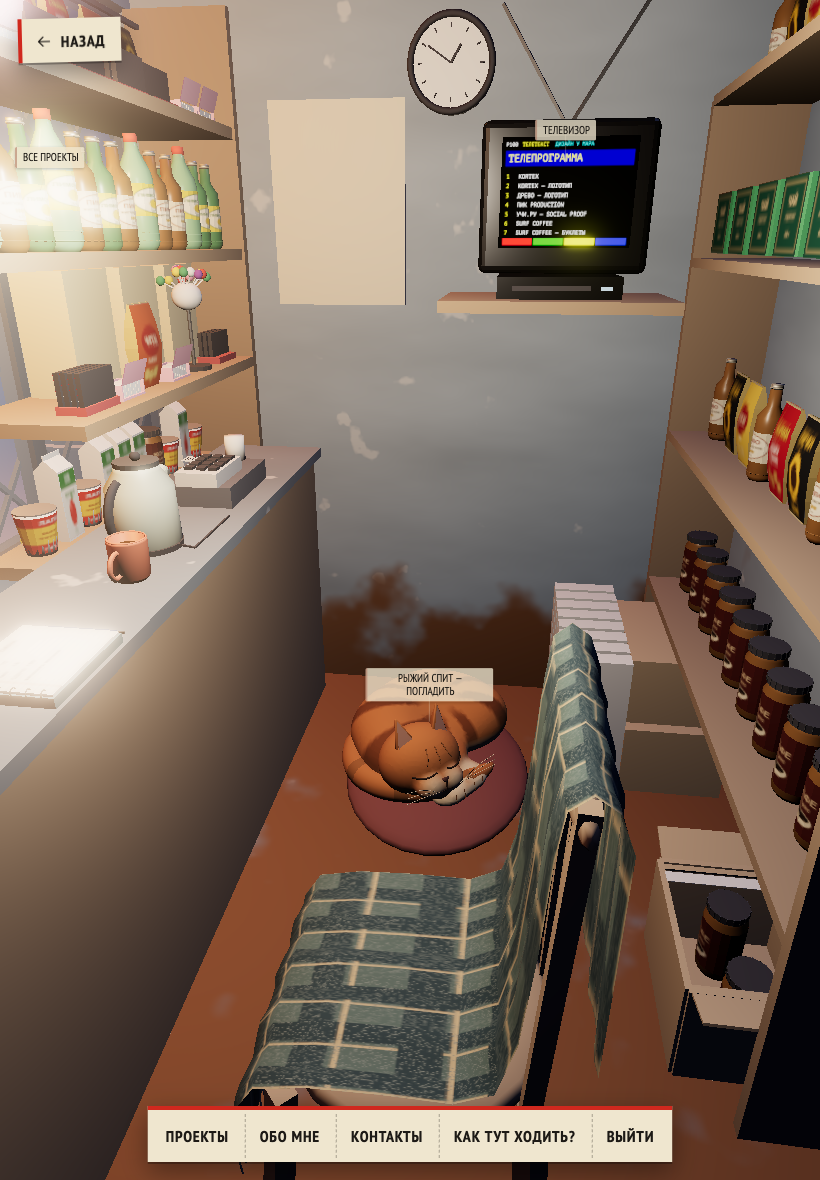
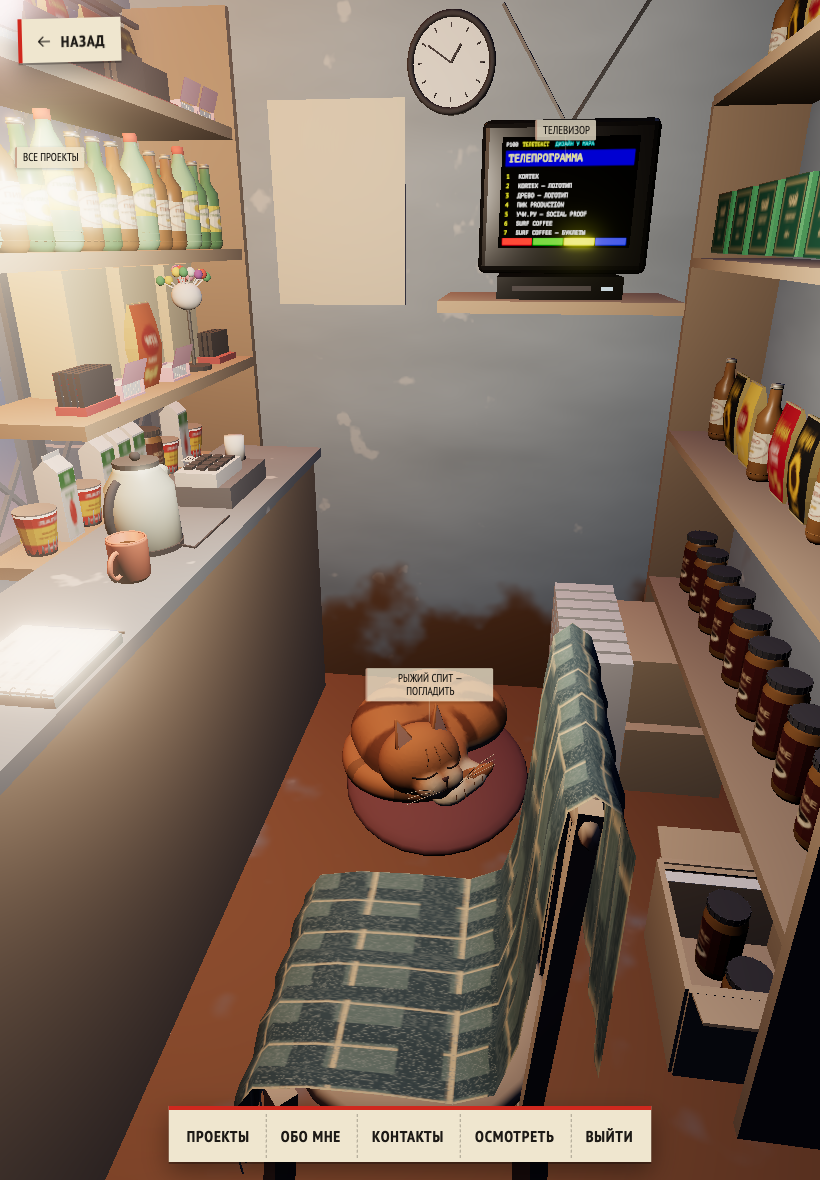
fix: expose every kiosk object through touch exploration

Changed region(s): [[0.1524, 0.9153, 0.8232, 1.0]]

diff --git a/scripts/kiosk/check-explore-browser.js b/scripts/kiosk/check-explore-browser.js
@@ -1,0 +1,66 @@
+async page => {
+  const browser = page.context().browser();
+  const base = 'http://localhost:5173/missing-mar-portfolio/';
+  const output = '/Users/mar/Documents/ChatGPT/des/missing-mar-portfolio/docs/superpowers/qa/kiosk-explore';
+  const results = [];
+  const errors = [];
+  const wait = async p => p.waitForFunction(() => {window.__kiosk?.frame();return window.__kiosk && !window.__kiosk.inFlight;}, null, {timeout:60000});
+  for (const size of [{name:'phone',width:390,height:844},{name:'ipad-portrait',width:820,height:1180},{name:'ipad-landscape',width:1180,height:820}]) {
+    const c = await browser.newContext({viewport:{width:size.width,height:size.height},isMobile:true,hasTouch:true,deviceScaleFactor:1,reducedMotion:'reduce'});
+    const p = await c.newPage();
+    p.on('pageerror',e=>errors.push(e.message));
+    const open = async () => {
+      await p.getByRole('button',{name:'Осмотреть',exact:true}).tap();
+      await p.getByRole('dialog',{name:'Осмотреть ларёк'}).waitFor({state:'visible'});
+    };
+    const reset = async () => {await p.goto(base);await p.reload();await wait(p);};
+    try {
+      await reset();
+      await p.waitForFunction(()=>!document.querySelector('.kiosk-touch-labels').classList.contains('is-moving'));
+      await p.locator('.kiosk-touch-label[data-node="hs_flyer"]').tap();await wait(p);
+      if(await p.evaluate(()=>location.hash)!=='#contact')throw Error('Direct contact label failed');
+      await p.locator('.screen-flyer .flyer-tabs a').filter({visible:true}).first().waitFor({state:'visible'});
+      await p.screenshot({path:`${output}/${size.name}-contacts.png`});
+      await reset();await open();
+      const projectLinks=await p.locator('#kiosk-explore a[href^="#project/"]').evaluateAll(es=>es.map(e=>({href:e.getAttribute('href'),text:e.textContent})));
+      if(projectLinks.length!==7)throw Error('Missing projects');
+      await p.screenshot({path:`${output}/${size.name}-menu.png`});
+      await p.getByRole('button',{name:'Закрыть список объектов'}).tap();
+      if(await p.evaluate(()=>document.activeElement?.dataset.action)!=='kiosk-explore')throw Error('Focus did not return');
+      const checks = [
+        ['hs_flyer','flyer','#contact'],['hs_pricelist','price','#price'],['hs_billboard','billboard','#about'],
+        ['hs_terminal','terminal',null],['hs_rack','rack',null],['hs_showcase','showcase',null],
+        ['hs_backdoor','inside',null],['hs_tv','tv','#catalog'],['hs_cat','cat',null],
+        ['hs_radio','inside',null],['hs_calendar','inside',null],['hs_sign_away','home',null]
+      ];
+      const checked=[];
+      for(const [node,preset,hash] of checks) {
+        await reset();await open();
+        await p.locator(`#kiosk-explore [data-node="${node}"]`).tap();
+        await p.waitForFunction(preset=>{window.__kiosk.frame();return window.__kiosk.current===preset&&!window.__kiosk.inFlight;},preset);
+        const state=await p.evaluate(()=>({current:window.__kiosk.current,hash:location.hash,dialog:document.querySelector('#kiosk-explore')?.open}));
+        if(state.current!==preset || (hash && state.hash!==hash) || state.dialog)throw Error(`${node}: ${JSON.stringify(state)}`);
+        if(['hs_radio','hs_calendar'].includes(node)) {
+          const dot=await p.evaluate(node=>{const k=window.__kiosk,o=k.scene.getObjectByName(node==='hs_calendar'?'calendar_print':node),v=o.position.clone();o.geometry.computeBoundingBox();o.geometry.boundingBox.getCenter(v);o.localToWorld(v);return k.camera.getWorldDirection(v.clone()).dot(v.sub(k.camera.position).normalize());},node);
+          if(dot<0.98)throw Error(`Camera did not face ${node}: ${dot}`);
+        }
+        checked.push(node);
+      }
+      for(const link of (size.name==='phone'?projectLinks:projectLinks.slice(0,1))) {
+        await reset();await open();
+        await p.locator(`#kiosk-explore a[href="${link.href}"]`).tap();
+        await p.waitForFunction(()=>{window.__kiosk.frame();return window.__kiosk.current==='tv'&&!window.__kiosk.inFlight;});
+        if(await p.evaluate(()=>location.hash)!==link.href)throw Error(`Project failed ${link.text}`);
+        if(await p.evaluate(()=>window.__kiosk.current)!=='tv')throw Error('Project TV did not open');
+      }
+      await reset();await p.getByRole('navigation',{name:'Помощь по ларьку'}).getByRole('button',{name:'Внутрь',exact:true}).tap();await wait(p);await open();
+      await p.keyboard.press('Escape');
+      if(await p.evaluate(()=>window.__kiosk.current)!=='inside')throw Error('Escape also navigated away');
+      await open();await p.getByRole('button',{name:'Выйти на улицу',exact:true}).tap();await wait(p);
+      if(await p.evaluate(()=>window.__kiosk.current)!=='home')throw Error('Menu exit failed');
+      results.push({device:size.name,directFlyer:true,objects:checked,projects:size.name==='phone'?projectLinks.length:1,focusReturn:true,escape:true,exit:true});
+    } finally {await c.close();}
+  }
+  if(errors.length)throw Error(errors.join('\n'));
+  return {results,errors};
+}

diff --git a/assets/js/kiosk/ui.js b/assets/js/kiosk/ui.js
@@ -1,4 +1,5 @@
 import { escapeHtml } from '../render.js';
+import { HOTSPOTS } from './hotspots.js';
 
 const BACK_ICON = '<i class="ph ph-arrow-left" aria-hidden="true"></i>';
 
@@ -8,8 +9,27 @@ export function renderHelpBar() {
     <a href="#about">Обо мне</a>
     <button type="button" data-action="contacts-card" aria-expanded="false" aria-controls="contact-card">Контакты</button>
     <button type="button" data-action="kiosk-help">Как тут ходить?</button>
+    <button type="button" class="kiosk-explore-toggle" data-action="kiosk-explore" aria-haspopup="dialog" aria-controls="kiosk-explore">Осмотреть</button>
     <button type="button" data-action="kiosk-inside">Внутрь</button>
   </nav>`;
+}
+
+export function renderExploreMenu(projects = [], inside = false) {
+  const names = { hs_flyer: 'Листок с контактами', hs_billboard: 'Баннер — обо мне',
+    hs_pricelist: 'Листок с прайсом', hs_terminal: 'Пополнение баланса',
+    hs_sign_away: 'Табличка «Отошёл»', hs_backdoor: inside ? 'Выйти на улицу' : 'Зайти внутрь' };
+  const group = (title, nodes) => `<section><h3>${title}</h3><div class="kiosk-explore-grid">${nodes.map(node =>
+    `<button type="button" data-action="kiosk-explore-pick" data-node="${node}">${escapeHtml(names[node] || HOTSPOTS[node].label)}</button>`
+  ).join('')}</div></section>`;
+  return `<dialog class="kiosk-explore" id="kiosk-explore" aria-labelledby="kiosk-explore-title">
+    <header><h2 id="kiosk-explore-title">Осмотреть ларёк</h2><button type="button" data-action="kiosk-explore-close" aria-label="Закрыть список объектов">×</button></header>
+    <div class="kiosk-explore-scroll">
+      ${group('На улице', ['hs_rack', 'hs_showcase', 'hs_flyer', 'hs_billboard', 'hs_pricelist', 'hs_terminal', 'hs_backdoor', 'hs_sign_away'])}
+      ${group('Внутри', ['hs_tv', 'hs_cat', 'hs_radio', 'hs_calendar'])}
+      <section><h3>Все проекты</h3><div class="kiosk-explore-grid">${projects.map(project =>
+        `<a href="#project/${encodeURIComponent(project.id)}">${escapeHtml(project.title)}</a>`).join('')}</div></section>
+    </div>
+  </dialog>`;
 }
 
 export function renderContactCard(links = []) {
@@ -36,7 +56,7 @@ export function renderRackControls(title = '') {
 
 export function renderHint(touch = false) {
   return `<div class="kiosk-hint" role="status">${touch
-    ? 'Поворачивай пальцем и нажимай на таблички'
+    ? 'Поворачивай пальцем. Всё доступно в «Осмотреть»'
     : 'Крути мышкой и нажимай на то, что светится'}</div>`;
 }
 

diff --git a/assets/js/app.js b/assets/js/app.js
@@ -26,6 +26,7 @@ import { drawTeletext } from './kiosk/teletext.js';
 import {
   renderBackButton,
   renderContactCard,
+  renderExploreMenu,
   renderHelpBar,
   renderHint,
   renderHotspotButtons,
@@ -290,6 +291,19 @@ function toggleContactCard(force) {
   if (open) slot.querySelector('a')?.focus();
 }
 
+function openExploreMenu() {
+  document.querySelector('#kiosk-explore')?.remove();
+  document.querySelector('.kiosk-chrome').insertAdjacentHTML('beforeend',
+    renderExploreMenu(state.bundle.projects, isInside(state.preset)));
+  const dialog = document.querySelector('#kiosk-explore');
+  dialog.addEventListener('click', event => {
+    if (event.target !== dialog) return;
+    const rect = dialog.getBoundingClientRect();
+    if (event.clientX < rect.left || event.clientX > rect.right || event.clientY < rect.top || event.clientY > rect.bottom) dialog.close();
+  });
+  dialog.showModal();
+}
+
 function changeChannel(step) {
   const { projects } = state.bundle;
   if (!projects.length) return;
@@ -484,6 +498,8 @@ async function mountKiosk() {
 }
 
 document.addEventListener('click', event => {
+  const explore = document.querySelector('#kiosk-explore');
+  if (explore?.open && event.target.closest('#kiosk-explore a[href]')) explore.close();
   const card = document.querySelector('#contact-card');
   if (card && !event.target.closest('#contact-card, [data-action="contacts-card"]')) toggleContactCard(false);
 
@@ -492,6 +508,14 @@ document.addEventListener('click', event => {
   const action = element.dataset.action;
   const step = Number(element.dataset.step);
   if (action === 'kiosk-pick') runAction(element.dataset.node);
+  if (action === 'kiosk-explore') openExploreMenu();
+  if (action === 'kiosk-explore-close') explore?.close();
+  if (action === 'kiosk-explore-pick') {
+    explore?.close();
+    const node = element.dataset.node;
+    if (['hs_radio', 'hs_calendar'].includes(node)) focusPreset('inside', { lookAt: node });
+    runAction(node);
+  }
   if (action === 'kiosk-focus') focusPreset(element.dataset.preset);
   if (action === 'kiosk-inside') {
     if (isInside(state.preset)) exitKiosk();
@@ -509,6 +533,7 @@ document.addEventListener('click', event => {
 });
 
 document.addEventListener('keydown', event => {
+  if (document.querySelector('#kiosk-explore')?.open) return;
   if (event.target.closest?.('input, textarea')) return;
   if (event.key === 'Escape') {
     if (document.querySelector('#contact-card')) toggleContactCard(false);

diff --git a/assets/css/kiosk.css b/assets/css/kiosk.css
@@ -136,6 +136,65 @@ body.is-pointing .kiosk-stage canvas {
   .kiosk-label { display: none; }
 }
 
+.kiosk-help .kiosk-explore-toggle { display: none; }
+
+@media (hover: none), (any-pointer: coarse) {
+  .kiosk-help [data-action="kiosk-help"] { display: none; }
+  .kiosk-help .kiosk-explore-toggle { display: flex; }
+}
+
+.kiosk-explore {
+  pointer-events: auto;
+  width: min(460px, calc(100vw - 24px));
+  max-height: calc(100dvh - 24px);
+  padding: 0;
+  border: 0;
+  border-top: 3px solid var(--tag-red);
+  border-radius: 3px;
+  color: var(--tag-ink);
+  background: var(--tag-paper);
+  box-shadow: var(--tag-shadow);
+}
+
+.kiosk-explore::backdrop { background: rgb(9 15 25 / 55%); }
+
+.kiosk-explore header {
+  display: flex;
+  align-items: center;
+  justify-content: space-between;
+  padding: 6px 12px 6px 16px;
+  border-bottom: 1px dashed #1d1a1640;
+}
+
+.kiosk-explore h2 { margin: 0; font: var(--tag-font); font-size: 20px; }
+.kiosk-explore header button { min-width: 44px; min-height: 44px; font-size: 26px; }
+
+.kiosk-explore-scroll {
+  max-height: min(70dvh, 620px);
+  overflow-y: auto;
+  overscroll-behavior: contain;
+  padding: 4px 16px 16px;
+}
+
+.kiosk-explore h3 { margin: 14px 0 8px; font: var(--tag-font); font-size: 16px; }
+.kiosk-explore-grid { display: grid; grid-template-columns: repeat(2, minmax(0, 1fr)); gap: 5px; }
+.kiosk-explore-grid button,
+.kiosk-explore-grid a {
+  display: flex;
+  align-items: center;
+  min-height: 44px;
+  padding: 8px 10px;
+  border: 1px solid #1d1a1620;
+  border-radius: 2px;
+  color: var(--tag-ink);
+  background: #fff9e778;
+  font: 400 14px/1.25 'PT Sans', Arial, sans-serif;
+  text-align: left;
+  overflow-wrap: anywhere;
+}
+.kiosk-explore-grid :is(a, button):active { background: #fff9e7; }
+.kiosk-explore :is(a, button):focus-visible { outline: 2px solid var(--tag-red); outline-offset: 1px; }
+
 .kiosk-help {
   position: fixed;
   z-index: 6;

diff --git a/assets/js/kiosk/scene.js b/assets/js/kiosk/scene.js
@@ -383,7 +383,7 @@ export async function createKioskScene({
   const labelPoint = new THREE.Vector3();
   function updateTouchLabels(now) {
     const hidden = !touchInput.matches || Boolean(flight) || Boolean(screens[current])
-      || Boolean(document.querySelector('.screen-flat, #contact-card, .kiosk-note'));
+      || Boolean(document.querySelector('.screen-flat, #contact-card, .kiosk-note, #kiosk-explore[open]'));
     touchLabels.hidden = hidden;
     if (hidden) {
       labelPose = '';
@@ -656,8 +656,12 @@ export async function createKioskScene({
     prepareFlightOrientation(flight);
   }
 
-  function focus(name, { instant = false } = {}) {
+  function focus(name, { instant = false, lookAt = null } = {}) {
     let view = screenView(name) || presets[name];
+    const object = lookAt && root.getObjectByName(lookAt);
+    if (name === 'inside' && object && view) {
+      view = { ...view, target: new THREE.Box3().setFromObject(object).getCenter(new THREE.Vector3()) };
+    }
     if (!view) return;
     if (name === 'home') {
       const scale = overviewScale(presetLimits(name).fov, camera.aspect);

diff --git a/assets/js/kiosk/touch-labels.js b/assets/js/kiosk/touch-labels.js
@@ -4,7 +4,7 @@ export const TOUCH_LABEL_QUERY = '(hover: none), (any-pointer: coarse)';
 
 export function selectLabels(items, { width, height, preset }) {
   const priority = node => preset === 'home'
-    ? ({ hs_rack: 0, hs_showcase: 1 }[node] ?? 2) : 0;
+    ? ({ hs_rack: 0, hs_flyer: 1 }[node] ?? 2) : 0;
   const score = item => priority(item.node) * width * height
     + (item.x - width / 2) ** 2 + (item.y - height * 0.48) ** 2;
   return items.filter(item => !(preset === 'rack' && item.node === 'hs_rack'))

diff --git a/docs/superpowers/qa/kiosk-touch-labels/README.md b/docs/superpowers/qa/kiosk-touch-labels/README.md
@@ -1,9 +1,11 @@
 # Touch labels
 
-Compact, translucent tappable paper labels use `(hover: none), (any-pointer: coarse)` so phones, tablets and tablets with trackpads do not need mouse hover. At most two labels appear on phones (up to 600px), or three on wider touch devices. The overview prioritises projects and the showcase; close-ups prioritise central visible objects. Labels respect occlusion and the current preset, and avoid overlapping one another or the footer. Their visible chips are about 21px high, inside transparent tap areas of at least 44px. Labels remain stationary during camera gestures, fade out over 180ms and return after 260ms of camera/rack stability. Reduced-motion preferences disable the fade. Individual project labels appear at the rack/showcase; room details appear inside. The away note retains its physical paper sign without an extra label covering the fascia. Reading pages, the contact card, notes and camera transitions hide the scene labels. Desktop mouse tooltips remain.
+Compact, translucent tappable paper labels use `(hover: none), (any-pointer: coarse)` so phones, tablets and tablets with trackpads do not need mouse hover. At most two labels appear on phones (up to 600px), or three on wider touch devices. The overview prioritises projects and the contacts flyer; close-ups prioritise central visible objects. Labels respect occlusion and the current preset, and avoid overlapping one another or the footer. Their visible chips are about 21px high, inside transparent tap areas of at least 44px. Labels remain stationary during camera gestures, fade out over 180ms and return after 260ms of camera/rack stability. Reduced-motion preferences disable the fade. Individual project labels appear at the rack/showcase; room details appear inside. The away note retains its physical paper sign without an extra label covering the fascia. Reading pages, the contact card, notes and camera transitions hide the scene labels. Desktop mouse tooltips remain.
 
 Browser checks: Chromium touch emulation at 390×844, 820×1180 and 1180×820; desktop at 1280×720. Verified initial label limits without pointer movement, 44px tap targets, no overlaps, footer contacts and project navigation by tap, hiding labels over reading pages, visible interior labels and desktop hover. Actual camera drags hide labels until settled; a separate normal-motion phone run confirmed opacity 0 during movement and 1 afterwards with a 180ms transition. Phone rotation to 844×390 recalculated placements above the footer. No page errors. Screenshots include overview, rack and interior at each touch size. This is browser emulation, not a physical iOS-device check.
 
 Repeat with `scripts/kiosk/check-touch-labels-browser.js` through the Playwright browser tool while Vite is running.
 
-Validation: 139 JavaScript tests + 9 Python tests pass; Vite production build passes, retaining the existing 500kB chunk advisory; `git diff --check` passes. No 3D model rebuild was required.
+Validation: 140 JavaScript tests + 9 Python tests pass; Vite production build passes, retaining the existing 500kB chunk advisory; `git diff --check` passes. No 3D model rebuild was required.
+
+Complete object/project access is provided by the touch «Осмотреть» menu; see `../kiosk-explore/README.md`. The limited scene labels are supplementary, not the only way to open an object.

diff --git a/docs/superpowers/qa/kiosk-explore/README.md b/docs/superpowers/qa/kiosk-explore/README.md
@@ -1,0 +1,11 @@
+# Complete touch exploration
+
+The touch help bar now has an «Осмотреть» button opening a native modal dialog. Its list exposes all 12 unique fixed objects (door aliases are deduplicated) and all 7 projects independently of camera orientation, occlusion and the two/three-label limit. The main phone view now prioritises the contacts flyer and project rack. Small labels still fade during camera gestures.
+
+Menu navigation uses existing object actions and native project anchors. Radio and calendar selections first move inside and face the chosen object. The door switches to «Выйти на улицу» while inside. Native dialog modality provides focus containment; closing restores focus to the opener. Escape closes the menu without also navigating the scene. Outside taps close the dialog.
+
+Browser validation through `scripts/kiosk/check-explore-browser.js`: Chromium touch emulation at 390×844, 820×1180 and 1180×820. All 12 object destinations exercised on each size, all 7 projects opened on the phone (one project on each tablet size). Direct contact-flyer label, opening/closing dialog, focus return, Escape and menu exit verified. Radio/calendar camera direction checked against their visible geometry. No page errors. Physical iOS hardware was not used.
+
+The earlier `check-touch-labels-browser.js` also passes for these three sizes and desktop 1280×720: label limits, taps, gesture fading and desktop hover remain intact.
+
+Validation: 140 JavaScript + 9 Python tests pass; production build passes with the existing chunk-size advisory; `git diff --check` passes. Screenshots show menu and opened flyer for each touch size.
